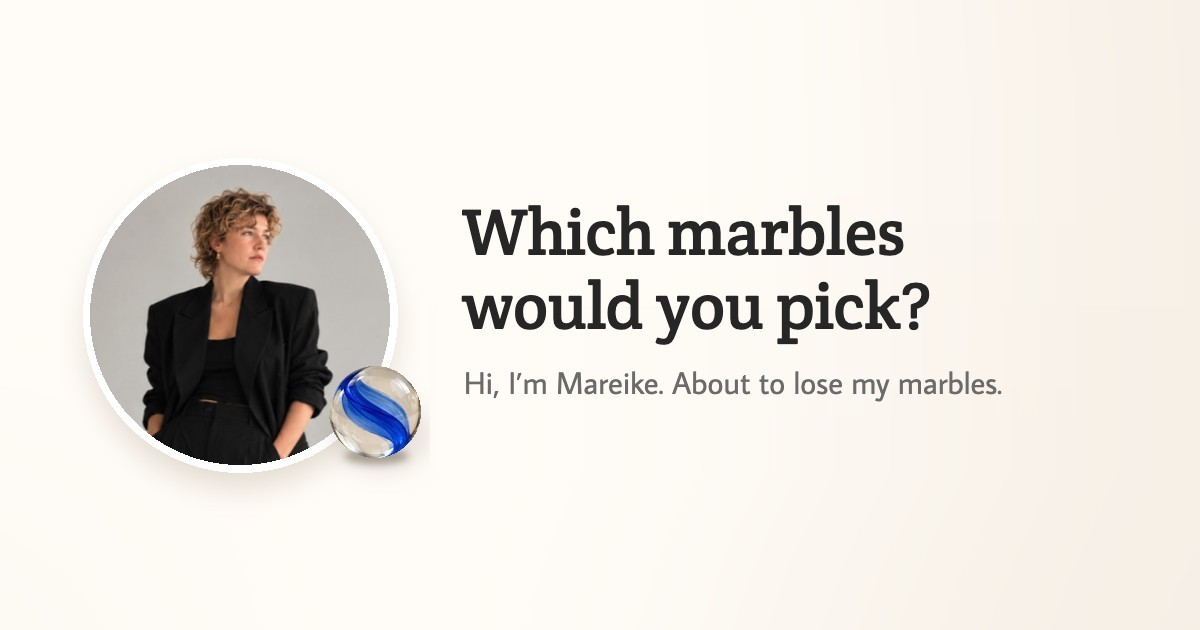
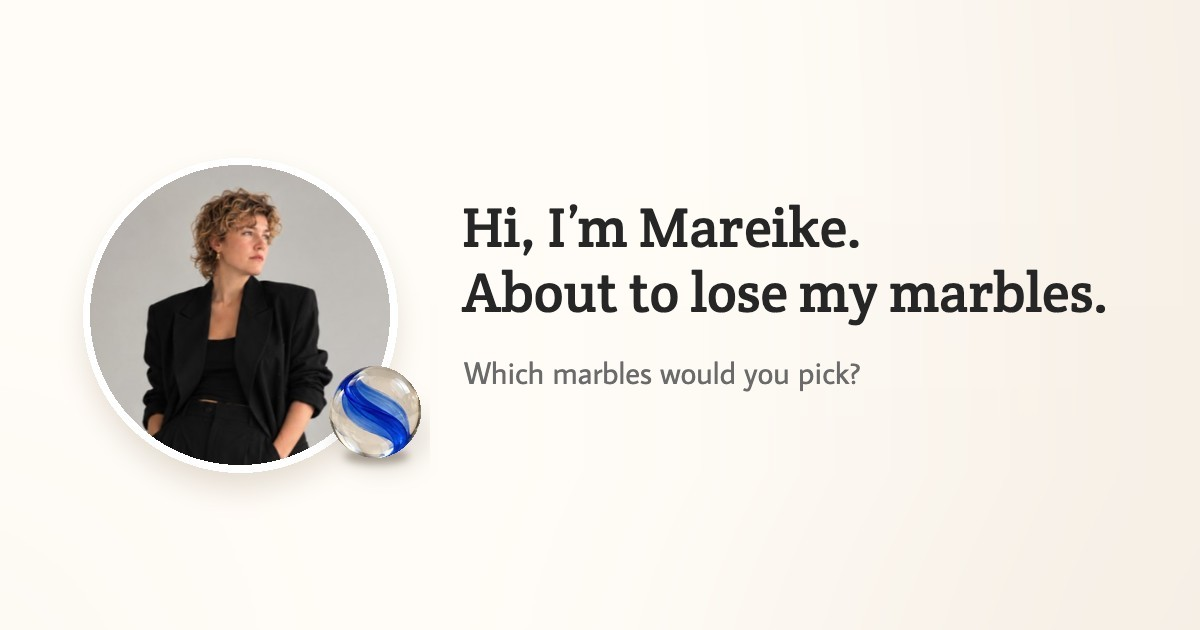
Publish the idea map (marbles 42beda5)

Changed region(s): [[0.37, 0.3317, 0.925, 0.5429], [0.37, 0.573, 0.8325, 0.6333]]

diff --git a/index.html b/index.html
@@ -1,1 +1,1 @@
-<!doctype html><html lang="en"><head><meta charset="utf-8"><meta name="viewport" content="width=device-width, initial-scale=1"><meta name="theme-color" content="#faf8f5"><title>Mareike Jens · Navigating Transformative AI</title><meta name="description" content="Which marbles would you pick? Fill a jar with the AI ideas you’d like to discuss over coffee."><meta property="og:type" content="website"><meta property="og:url" content="https://mareikejens.com/"><meta property="og:site_name" content="Mareike Jens"><meta property="og:title" content="Mareike Jens · Navigating Transformative AI"><meta property="og:description" content="Which marbles would you pick? Fill a jar with the AI ideas you’d like to discuss over coffee."><meta property="og:image" content="https://mareikejens.com/assets/og-image.jpg?v=8"><meta property="og:image:width" content="1200"><meta property="og:image:height" content="630"><meta property="og:image:alt" content="Which marbles would you pick? Hi, I’m Mareike. About to lose my marbles."><meta name="twitter:card" content="summary_large_image"><meta name="twitter:image" content="https://mareikejens.com/assets/og-image.jpg?v=8"><meta name="twitter:image:alt" content="Which marbles would you pick? Hi, I’m Mareike. About to lose my marbles."><link rel="icon" href="/favicon.ico?v=2" sizes="48x48"><link rel="icon" type="image/png" sizes="32x32" href="/favicon-32x32.png?v=2"><link rel="icon" type="image/png" sizes="16x16" href="/favicon-16x16.png?v=2"><link rel="icon" type="image/png" sizes="512x512" href="/icon-512.png?v=2"><link rel="apple-touch-icon" href="/apple-touch-icon.png?v=2"><link rel="stylesheet" href="style.css"><link rel="stylesheet" href="play.css"><script defer src="content.js"></script><script defer src="explosion.js"></script><script defer src="motion.js"></script><script defer src="vendor/matter.min.js"></script><script defer src="track.js"></script><script defer src="jar.js"></script><script defer src="play.js"></script><script defer src="app.js"></script></head><body class="cover"><header class="mast"><button class="face" type="button" data-about><img src="assets/mareike.jpg" alt="Mareike Jens"></button><button class="mast-title" type="button" data-about><span id="siteTitle"></span></button><nav class="mast-tools" id="mastTools"></nav></header><main id="app"></main><dialog id="sheet"><button class="x"></button><section id="detail"></section></dialog></body></html>
+<!doctype html><html lang="en"><head><meta charset="utf-8"><meta name="viewport" content="width=device-width, initial-scale=1"><meta name="theme-color" content="#faf8f5"><title>Mareike Jens · Navigating Transformative AI</title><meta name="description" content="Which marbles would you pick? Fill a jar with the AI ideas you’d like to discuss over coffee."><meta property="og:type" content="website"><meta property="og:url" content="https://mareikejens.com/"><meta property="og:site_name" content="Mareike Jens"><meta property="og:title" content="Mareike Jens · Navigating Transformative AI"><meta property="og:description" content="Which marbles would you pick? Fill a jar with the AI ideas you’d like to discuss over coffee."><meta property="og:image" content="https://mareikejens.com/assets/og-image.jpg?v=9"><meta property="og:image:width" content="1200"><meta property="og:image:height" content="630"><meta property="og:image:alt" content="Hi, I’m Mareike. About to lose my marbles. Which marbles would you pick?"><meta name="twitter:card" content="summary_large_image"><meta name="twitter:image" content="https://mareikejens.com/assets/og-image.jpg?v=9"><meta name="twitter:image:alt" content="Hi, I’m Mareike. About to lose my marbles. Which marbles would you pick?"><link rel="icon" href="/favicon.ico?v=2" sizes="48x48"><link rel="icon" type="image/png" sizes="32x32" href="/favicon-32x32.png?v=2"><link rel="icon" type="image/png" sizes="16x16" href="/favicon-16x16.png?v=2"><link rel="icon" type="image/png" sizes="512x512" href="/icon-512.png?v=2"><link rel="apple-touch-icon" href="/apple-touch-icon.png?v=2"><link rel="stylesheet" href="style.css"><link rel="stylesheet" href="play.css"><script defer src="content.js"></script><script defer src="explosion.js"></script><script defer src="motion.js"></script><script defer src="vendor/matter.min.js"></script><script defer src="track.js"></script><script defer src="jar.js"></script><script defer src="play.js"></script><script defer src="app.js"></script></head><body class="cover"><header class="mast"><button class="face" type="button" data-about><img src="assets/mareike.jpg" alt="Mareike Jens"></button><button class="mast-title" type="button" data-about><span id="siteTitle"></span></button><nav class="mast-tools" id="mastTools"></nav></header><main id="app"></main><dialog id="sheet"><button class="x"></button><section id="detail"></section></dialog></body></html>
